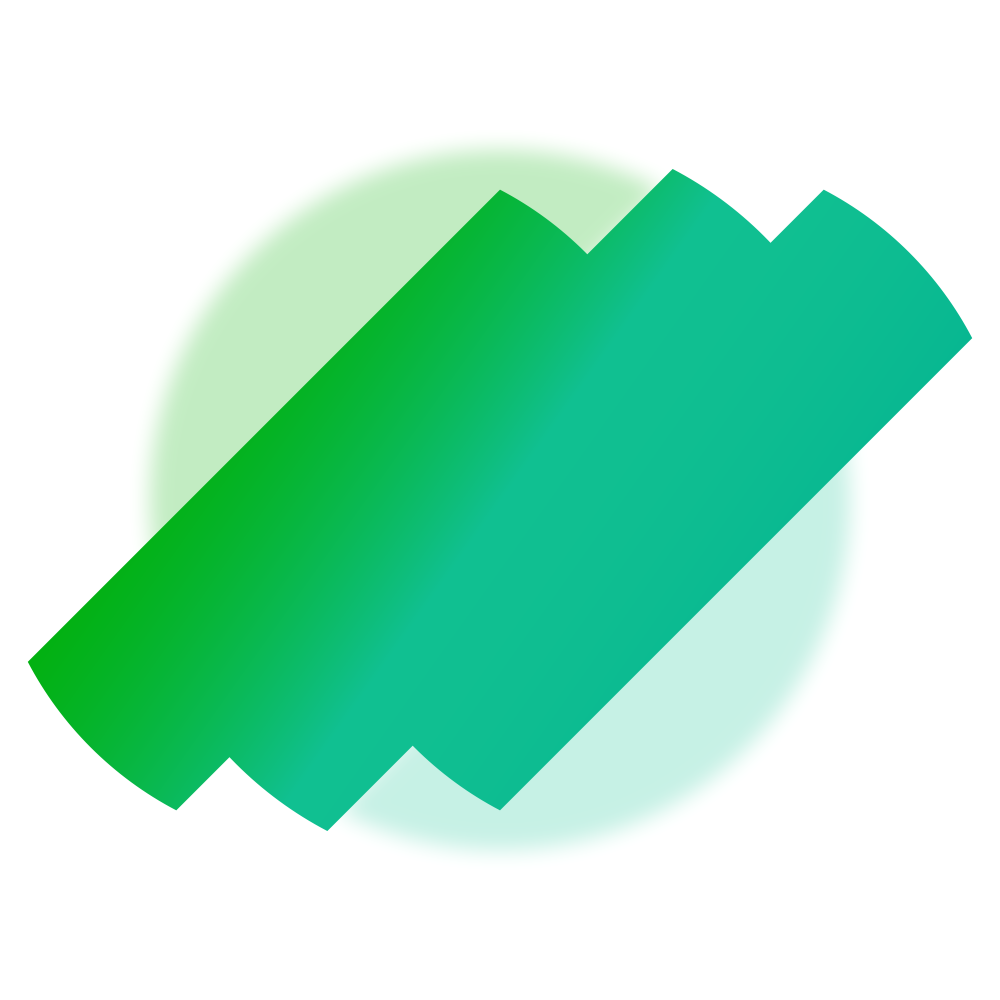
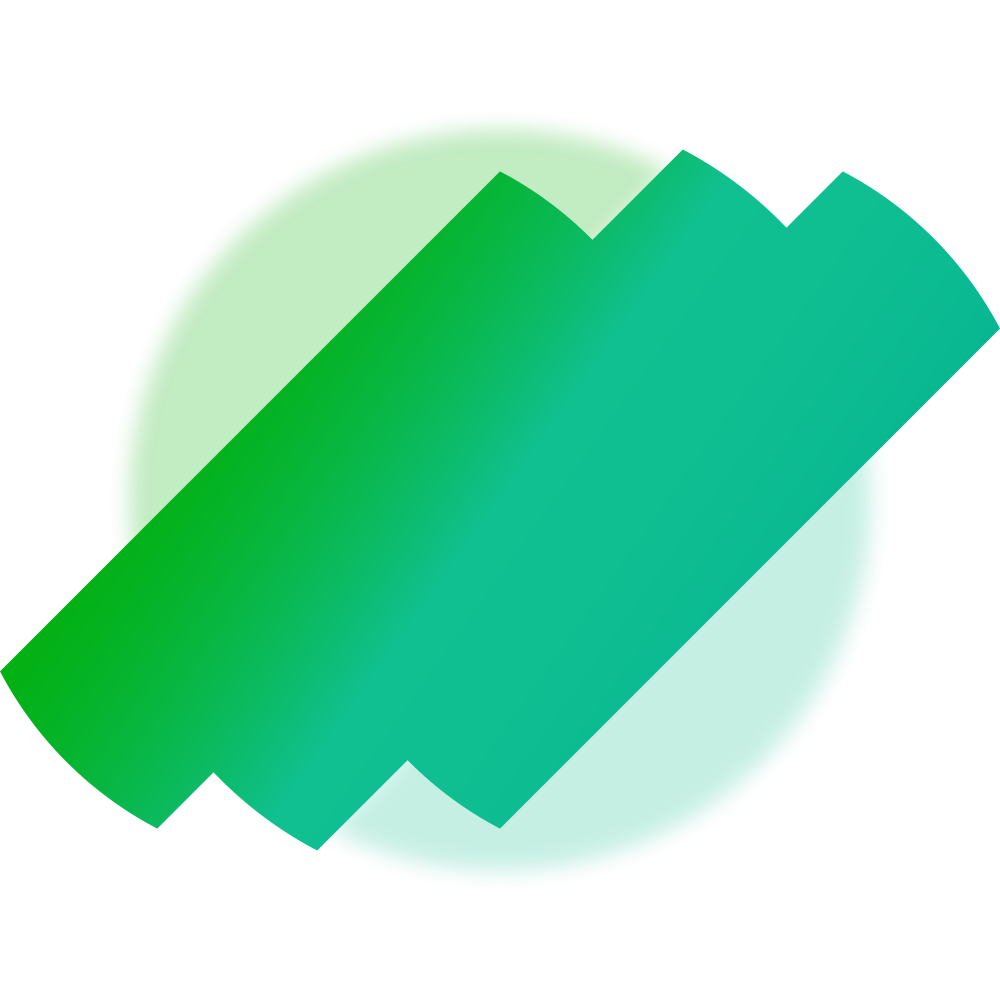
RS42.3

diff --git a/main/about/about.html b/main/about/about.html
@@ -1092,7 +1092,28 @@
                                     <li>修复了一些已知Bug。</li>
                                 </ol>
                         </div>
-                    </div>                    
+                    </div>     
+<div class="version-card">
+                        <div class="version-header">
+                            <div class="version-info">
+                                <div class="version-badge" style="font-family: 'HarmonyOS Sans SC', sans-serif;">5.1.2:24.3-RS42.3</div>
+                                <div class="version-title"  style="font-family: 'HarmonyOS Sans SC', sans-serif;">紧急修复严重漏洞</div>
+                            </div>
+                        </div>
+                        <div class="version-content">
+                            <h2 class="section-title" style="font-family: 'HarmonyOS Sans SC', sans-serif; margin-top: -25px;">新增内容</h2>
+                                <ol class="section-list" style="font-size: 1.02rem; font-family: 'HarmonyOS Sans SC', sans-serif;">
+                                    <li>新版本地图标。</li>
+                                </ol>
+                        </div>
+                        <div class="version-content">
+                            <h2 class="section-title" style="font-family: 'HarmonyOS Sans SC', sans-serif; margin-top: -25px;">修复内容</h2>
+                                <ol class="section-list" style="font-size: 1.02rem; font-family: 'HarmonyOS Sans SC', sans-serif;">
+                                    <li>修复内存占用和流畅性问题。</li>
+                                    <li>修复了一些已知Bug。</li>
+                                </ol>
+                        </div>
+                    </div>               
                 </div>
             </section>
                 

diff --git a/main/welc/welc.html b/main/welc/welc.html
@@ -315,8 +315,7 @@
             <div class="section">
                 <h2 class="section-title">新增内容</h2>
                 <ol class="section-list">
-                    <li>加入全新云图标。</li>
-                    <li>引入全新反馈系统。</li>
+                    <li>新版本地图标。</li>
                 </ol>
               </div>
             <div class="section">

diff --git a/main/script.js b/main/script.js
@@ -367,7 +367,7 @@ class OOOInterface {
 
         // 版本信息
         const version = document.createElement('p');
-        version.textContent = `[component.over]5.1.2:24-RS42.2`;
+        version.textContent = `[component.over]5.1.2:24.3-RS42.3`;
         version.style.cssText = `
             font-size: 14px;
             color: #000000;

diff --git a/main/version.js b/main/version.js
@@ -1,1 +1,1 @@
-const VERSION = "5.1.2:24.2-RS42";
+const VERSION = "5.1.2:24.3-RS42.3";

diff --git a/README.md b/README.md
@@ -4,9 +4,9 @@
 
 ## 项目信息
 
-- **产品名称**: OOOInterface5.2
-- **当前版本**: 5.2:25-BS88
-- **发布日期**: 2026年4月24日
+- **产品名称**: OOOInterface5.1
+- **当前版本**: 5.1.2:24.3-RS42.3
+- **发布日期**: 2026年5月30日
 - **许可证**: ABCD-26W08A
 - **Manifest 版本**: V3
 